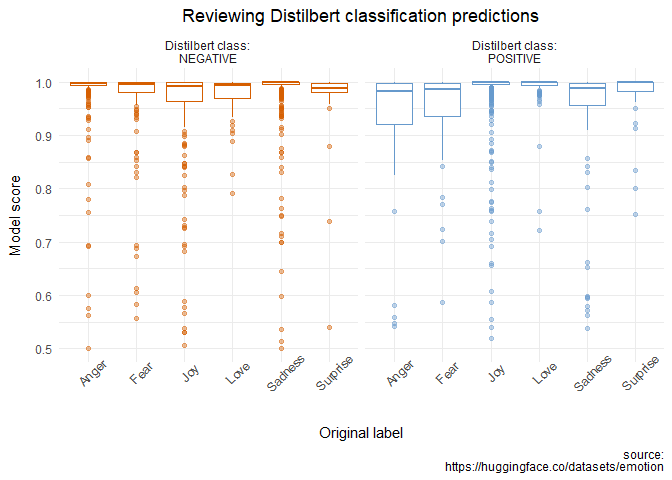
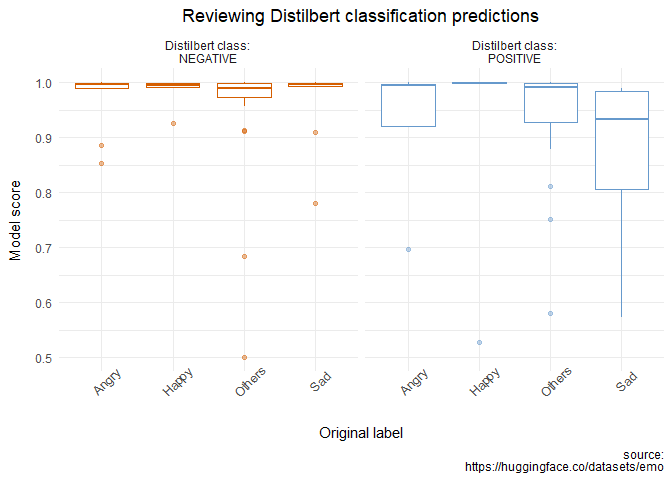
Update to README and vignettes

diff --git a/README.md b/README.md
@@ -1,34 +1,35 @@
----
-output: github_document
----
 
 <!-- README.md is generated from README.Rmd. Please edit that file -->
-
-
 
 # huggingfaceR
 
 <!-- badges: start -->
-
 <!-- badges: end -->
 
-The goal of `huggingfaceR` is to to bring state-of-the-art NLP models to R. `huggingfaceR` is built on top of Hugging Face's [transformers](https://huggingface.co/docs/transformers/index) library; and has support for navigating the Hugging Face Hub [The Hub](https://huggingface.co/models).
+The goal of `huggingfaceR` is to to bring state-of-the-art NLP models to
+R. `huggingfaceR` is built on top of Hugging Face’s
+[transformers](https://huggingface.co/docs/transformers/index) library;
+and has support for navigating the Hugging Face Hub [The
+Hub](https://huggingface.co/models).
 
 ## Installation
 
-Prior to installing `huggingfaceR` please be sure to have your python environment set up correctly. 
+Prior to installing `huggingfaceR` please be sure to have your python
+environment set up correctly.
 
-
-```r
+``` r
 install.packages("reticulate")
 library(reticulate)
 
 install_miniconda()
 ```
 
-If you are having issues, more detailed instructions on how to install and configure python can be found [here](https://support.rstudio.com/hc/en-us/articles/360023654474-Installing-and-Configuring-Python-with-RStudio).
+If you are having issues, more detailed instructions on how to install
+and configure python can be found
+[here](https://support.rstudio.com/hc/en-us/articles/360023654474-Installing-and-Configuring-Python-with-RStudio).
 
-After that you can install the development version of huggingfaceR from [GitHub](https://github.com/) with:
+After that you can install the development version of huggingfaceR from
+[GitHub](https://github.com/) with:
 
 ``` r
 # install.packages("devtools")
@@ -37,63 +38,93 @@ devtools::install_github("farach/huggingfaceR")
 
 ## Example
 
-`huggingfaceR` makes use of the `transformers` `pipline()` abstraction to quickly make pre-trained language models available for use in R. In this example we will load the `distilbert-base-uncased-finetuned-sst-2-english` model and its tokenizer into a pipeline object to obtain sentiment scores.
+`huggingfaceR` makes use of the `transformers` `pipline()` abstraction
+to quickly make pre-trained language models available for use in R. In
+this example we will load the
+`distilbert-base-uncased-finetuned-sst-2-english` model and its
+tokenizer into a pipeline object to obtain sentiment scores.
 
-
-```r
+``` r
 library(huggingfaceR)
 
-distilBERT <- hf_load_pipeline("distilbert-base-uncased-finetuned-sst-2-english", task = "text-classification")
-#> Error in hf_load_pipeline("distilbert-base-uncased-finetuned-sst-2-english", : could not find function "hf_load_pipeline"
-
-hf_stop_token_spam() #Use this to avoid the tokenizers fork - or set use_fast = FALSE
-#> Error in hf_stop_token_spam(): could not find function "hf_stop_token_spam"
-```
-
-With the pipeline now loaded, we can begin using the model. 
-
-
-```r
-distilBERT("I like you. I love you")
-#> Error in distilBERT("I like you. I love you"): could not find function "distilBERT"
-```
-
-We can use this pipeline in a typical tidyverse processing chunk. First we load the `tidyverse`.
-
-
-```r
-library(tidyverse)
-```
-
-We can use the `huggingfaceR` `hf_load_dataset()` function to pull in the [emotion](https://huggingface.co/datasets/emotion) Hugging Face dataset. This dataset contains English Twitter messages with six basic emotions: anger, fear, love, sadness, and surprise. We are interested in how well the Distilbert model classifies these emotions as either a positive or a negative sentiment.
-
-
-```r
-emotion <- hf_load_dataset(
-  "emotion", 
-  split = "test",
-  label_conversion = "int2str"
+distilBERT <- hf_load_pipeline(
+  model_id = "distilbert-base-uncased-finetuned-sst-2-english", 
+  task = "text-classification"
   )
-#> Error in hf_load_dataset("emotion", split = "test", label_conversion = "int2str"): could not find function "hf_load_dataset"
+#> 
+#> 
+#> distilbert-base-uncased-finetuned-sst-2-english is ready for text-classification
 
-emotion_model <- emotion |>
+distilBERT
+#> <transformers.pipelines.text_classification.TextClassificationPipeline object at 0x000001D0A8F71510>
+```
+
+With the pipeline now loaded, we can begin using the model.
+
+``` r
+distilBERT("I like you. I love you")
+#> [[1]]
+#> [[1]]$label
+#> [1] "POSITIVE"
+#> 
+#> [[1]]$score
+#> [1] 0.9998739
+```
+
+We can use this pipeline in a typical tidyverse processing chunk. First
+we load the `tidyverse`.
+
+``` r
+library(tidyverse)
+#> ── Attaching packages ─────────────────────────────────────── tidyverse 1.3.2 ──
+#> ✔ ggplot2 3.4.0      ✔ purrr   1.0.0 
+#> ✔ tibble  3.1.8      ✔ dplyr   1.0.10
+#> ✔ tidyr   1.2.1      ✔ stringr 1.5.0 
+#> ✔ readr   2.1.3      ✔ forcats 0.5.2 
+#> ── Conflicts ────────────────────────────────────────── tidyverse_conflicts() ──
+#> ✖ dplyr::filter() masks stats::filter()
+#> ✖ dplyr::lag()    masks stats::lag()
+```
+
+We can use the `huggingfaceR` `hf_load_dataset()` function to pull in
+the [emotion](https://huggingface.co/datasets/emotion) Hugging Face
+dataset. This dataset contains English Twitter messages with six basic
+emotions: anger, fear, love, sadness, and surprise. We are interested in
+how well the Distilbert model classifies these emotions as either a
+positive or a negative sentiment.
+
+``` r
+emo <- hf_load_dataset(
+  dataset = "emo", 
+  split = "train", 
+  as_tibble = TRUE, 
+  label_name = "int2str"
+  )
+
+emo_model <- emo %>%
+  sample_n(100) %>% 
   transmute(
     text,
     emotion_id = label,
     emotion_name = label_name,
     distilBERT_sent = distilBERT(text)
-  ) |>
+  ) %>%
   unnest_wider(distilBERT_sent)
-#> Error in transmute(emotion, text, emotion_id = label, emotion_name = label_name, : object 'emotion' not found
 
-glimpse(emotion_model)
-#> Error in glimpse(emotion_model): object 'emotion_model' not found
+glimpse(emo_model)
+#> Rows: 100
+#> Columns: 5
+#> $ text         <chr> "on hotstar thanks found it whom u hate much", "what so g…
+#> $ emotion_id   <dbl> 0, 3, 3, 2, 1, 3, 0, 3, 2, 1, 0, 0, 0, 0, 1, 0, 2, 3, 1, …
+#> $ emotion_name <chr> "others", "angry", "angry", "sad", "happy", "angry", "oth…
+#> $ label        <chr> "NEGATIVE", "POSITIVE", "NEGATIVE", "NEGATIVE", "NEGATIVE…
+#> $ score        <dbl> 0.9737250, 0.9995377, 0.9959581, 0.9969825, 0.9984096, 0.…
 ```
+
 We can use `ggplot2` to visualize the results.
 
-
-```r
-emotion_model |>
+``` r
+emo_model |>
   mutate(
     label = paste0("Distilbert class:\n", label),
     emotion_name = str_to_title(emotion_name)
@@ -106,7 +137,7 @@ emotion_model |>
     title = "Reviewing Distilbert classification predictions",
     x = "Original label",
     y = "Model score",
-    caption = "source:\nhttps://huggingface.co/datasets/emotion"
+    caption = "source:\nhttps://huggingface.co/datasets/emo"
   ) +
   theme_minimal() +
   theme(
@@ -115,7 +146,6 @@ emotion_model |>
     axis.title.y = element_text(margin = margin(t = 0, r = 10, b = 0, l = 0)),
     axis.title.x = element_text(margin = margin(t = 10, r = 0, b = 0, l = 0))
   )
-#> Error in mutate(emotion_model, label = paste0("Distilbert class:\n", label), : object 'emotion_model' not found
 ```
 
-
+<img src="man/figures/README-unnamed-chunk-6-1.png" width="100%" />